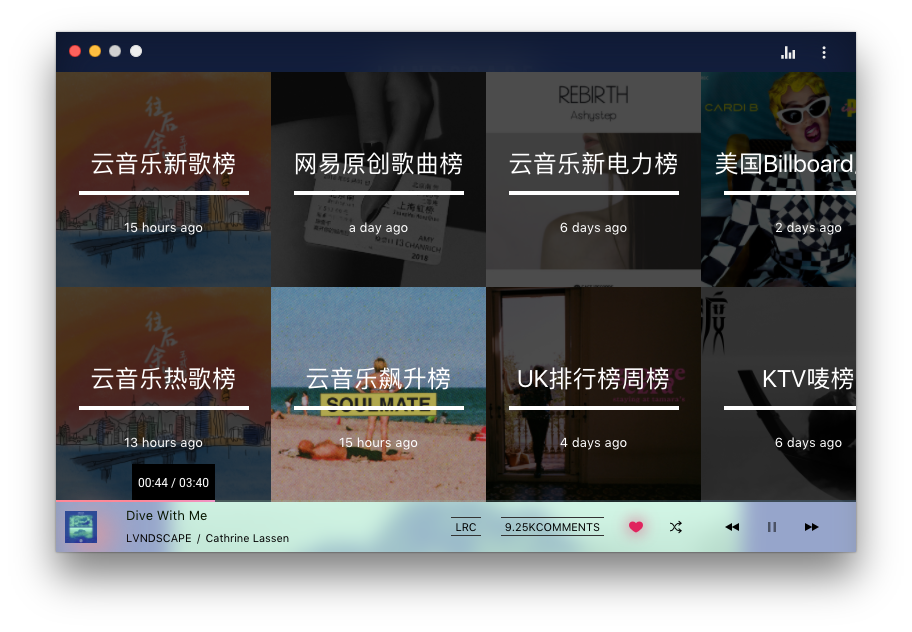
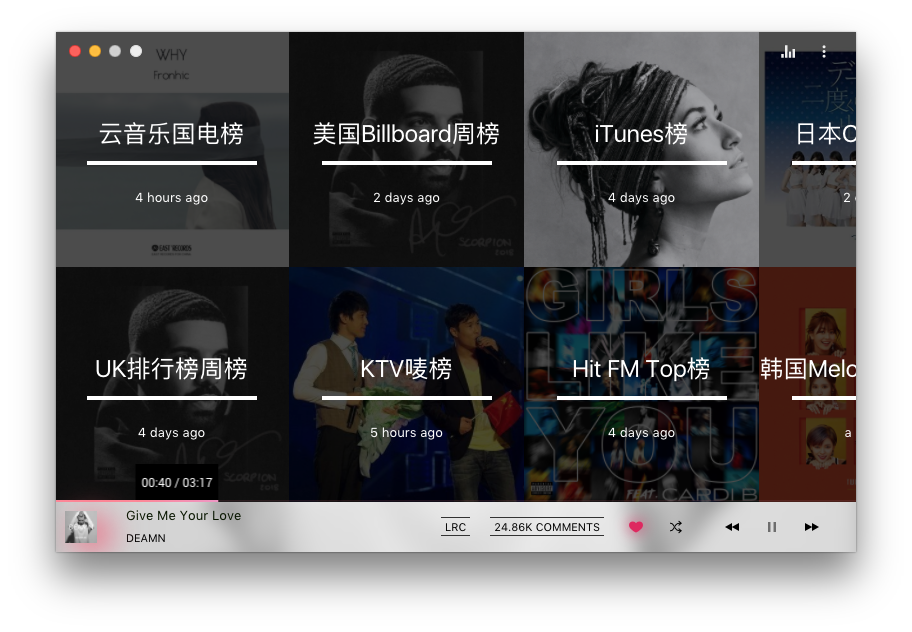
Remove header from Top screen

diff --git a/src/js/pages/Top/classes.js b/src/js/pages/Top/classes.js
@@ -1,14 +1,12 @@
 
 export default theme => ({
-    container: {
-        marginTop: 40,
-    },
+    container: {},
 
     item: {
         position: 'relative',
         display: 'flex',
-        height: 'calc((100vh - 90px) / 2)',
-        width: 'calc((100vh - 90px) / 2)',
+        height: 'calc((100vh - 50px) / 2)',
+        width: 'calc((100vh - 50px) / 2)',
         alignItems: 'center',
         justifyContent: 'center',
         flexDirection: 'column',

diff --git a/src/js/pages/Top/index.js b/src/js/pages/Top/index.js
@@ -94,6 +94,7 @@ class Top extends Component {
             <div className={classes.container}>
                 <Header {...{
                     showBack: true,
+                    transparent: true,
                 }} />
 
                 <Scroller reverseScroll={!naturalScroll}>

diff --git a/README.md b/README.md
@@ -86,6 +86,7 @@ $ pacman -S iease-music-git
 ![COMMENTS](https://github.com/trazyn/ieaseMusic/blob/dev/screenshots/comments.png?raw=true)
 ![LYRICS](https://github.com/trazyn/ieaseMusic/blob/dev/screenshots/lyrics.png?raw=true)
 ![COVER](https://github.com/trazyn/ieaseMusic/blob/dev/screenshots/cover.png?raw=true)
+![TOP](https://github.com/trazyn/ieaseMusic/blob/dev/screenshots/top.png?raw=true)
 ![CMDP](https://github.com/trazyn/ieaseMusic/blob/dev/screenshots/cmd+p.png?raw=true)
 ![MENU](https://github.com/trazyn/ieaseMusic/blob/dev/screenshots/menu.png?raw=true)
 ![UPNEXT](https://github.com/trazyn/ieaseMusic/blob/dev/screenshots/upnext.png?raw=true)
